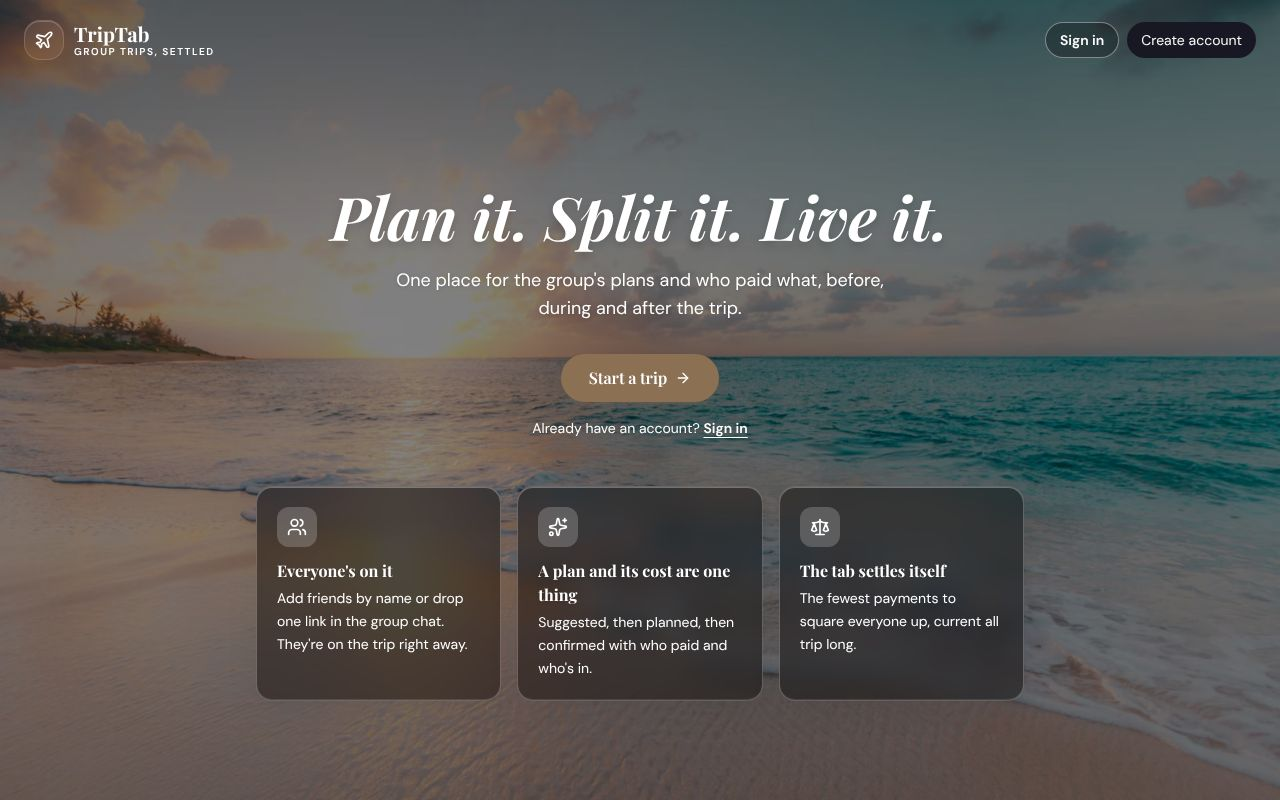
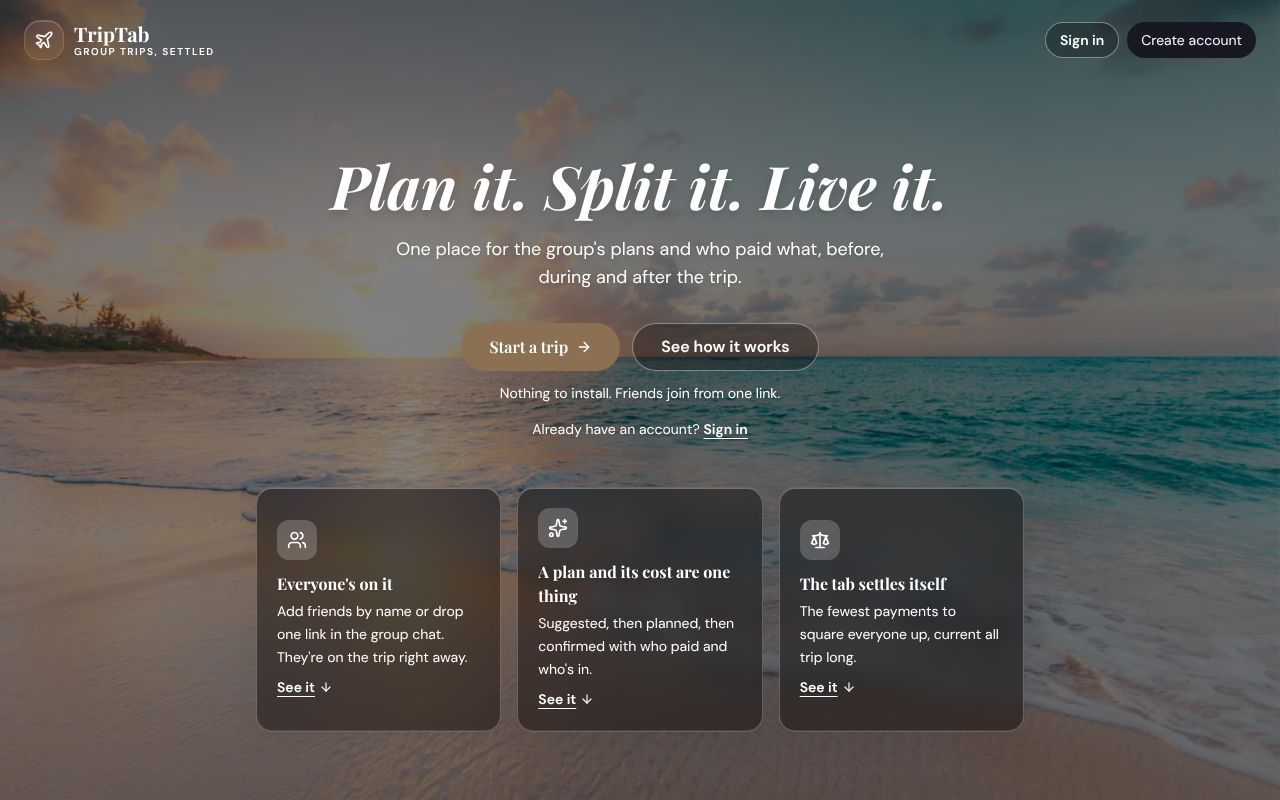
A landing page that shows the product (C48, part 2) (#84)
In its first live week 44 people saw the landing page and none clicked
through; two phone visitors tapped the three feature cards, which looked
like buttons and did nothing. The cards are buttons now: each takes you
to a real screen of the app (the invite, a day of plans, Settle up) in a
new How it works section, with a second Start a trip at the end. A See
how it works button sits beside Start a trip.

The three screens are shot from the ski trip example by
e2e/landing-shots.cjs: made-up people and prices, no real trip.

diff --git a/app/src/pages/Landing.tsx b/app/src/pages/Landing.tsx
@@ -1,25 +1,66 @@
 import { Link, useNavigate } from "react-router";
-import { ArrowRight, Users, Sparkles, Scale } from "lucide-react";
+import { ArrowDown, ArrowRight, Users, Sparkles, Scale } from "lucide-react";
 import { Brand } from "../components/Brand";
 import { Button, PhotoFrame } from "../components/ui";
 import { LANDING_PHOTO } from "../lib/photos";
 import { useAuth } from "../lib/auth";
+import { track } from "../lib/analytics";
 
+/**
+ * The three things TripTab does, each with a real screen of the app (the ski trip example, shot by
+ * e2e/landing-shots.cjs). On the first live week 44 people saw this page and none clicked through;
+ * two phone visitors tapped these cards, which looked like buttons and did nothing (11/23 review,
+ * item 8). Now a card takes you to its screen, and the page shows the product before asking for an
+ * account.
+ */
 const POINTS = [
-  { icon: Users, title: "Everyone's on it", text: "Add friends by name or drop one link in the group chat. They're on the trip right away." },
-  { icon: Sparkles, title: "A plan and its cost are one thing", text: "Suggested, then planned, then confirmed with who paid and who's in." },
-  { icon: Scale, title: "The tab settles itself", text: "The fewest payments to square everyone up, current all trip long." },
-];
+  {
+    id: "invite",
+    icon: Users,
+    title: "Everyone's on it",
+    text: "Add friends by name or drop one link in the group chat. They're on the trip right away.",
+    shot: "/landing/invite.jpg",
+    alt: "The invite a friend opens: the trip, and their name to tap.",
+    step: "Drop one link in the group chat",
+    more: "Each friend taps their name and they're in. No app to install, and nobody fills in a form to see the plan.",
+  },
+  {
+    id: "plans",
+    icon: Sparkles,
+    title: "A plan and its cost are one thing",
+    text: "Suggested, then planned, then confirmed with who paid and who's in.",
+    shot: "/landing/plans.jpg",
+    alt: "A trip's day in TripTab: a flight, a dinner marked paid with your share, and an idea still to decide.",
+    step: "Plan the days together",
+    more: "Each day runs morning to night. Ideas are dotted, plans are solid, and a green check means it's booked and paid. Forward a booking email and TripTab reads it into a plan for you to check.",
+  },
+  {
+    id: "settle",
+    icon: Scale,
+    title: "The tab settles itself",
+    text: "The fewest payments to square everyone up, current all trip long.",
+    shot: "/landing/settle.jpg",
+    alt: "Settle up: three payments that square the whole group, the first with Pay with Venmo.",
+    step: "Settle up in a couple of taps",
+    more: "TripTab works out the fewest payments that square everyone, and opens Venmo with the amount filled in. It never touches your money.",
+  },
+] as const;
 
 /** Straight to the trip: one button, no "already planned or plan it for me" gate (vision, principle 1). */
 export default function Landing() {
   const { user } = useAuth();
   const navigate = useNavigate();
   const start = () => navigate(user ? "/trips/new" : "/sign-in?next=/trips/new");
+  const show = (id: string, from: "card" | "see how") => {
+    track("landing section opened", { section: id, from });
+    document.getElementById(`how-${id}`)?.scrollIntoView({ behavior: "smooth", block: "start" });
+  };
 
   return (
-    <div className="relative flex min-h-dvh flex-col overflow-hidden">
+    <div className="relative">
       <PhotoFrame src={LANDING_PHOTO} tone="landing" />
+      {/* The first screen: the photo, the pitch and the button. How it works starts below it. */}
+      <div className="relative flex min-h-dvh flex-col">
       <header className="relative z-10 flex items-center justify-between px-4 py-4 sm:px-6 sm:py-5">
         <Brand light />
         {user ? (
@@ -46,9 +87,15 @@ export default function Landing() {
         <p className="mx-auto mb-8 max-w-lg text-base text-white drop-shadow sm:text-lg">
           One place for the group's plans and who paid what, before, during and after the trip.
         </p>
-        <Button size="lg" onClick={start}>
-          Start a trip <ArrowRight />
-        </Button>
+        <div className="flex flex-wrap items-center justify-center gap-3">
+          <Button size="lg" onClick={() => (track("landing start", { where: "top" }), start())}>
+            Start a trip <ArrowRight />
+          </Button>
+          <Button size="lg" variant="light" className="!border-white/40 !bg-black/30 font-semibold" onClick={() => show("invite", "see how")}>
+            See how it works
+          </Button>
+        </div>
+        <p className="mt-3 text-sm text-white drop-shadow">Nothing to install. Friends join from one link.</p>
         {user ? (
           <Link to="/trips" className="mt-4 text-sm font-medium text-white drop-shadow hover:underline">
             Open my trips
@@ -63,18 +110,59 @@ export default function Landing() {
         )}
 
         <ul className="mt-12 grid w-full max-w-3xl grid-cols-1 gap-3 text-left sm:grid-cols-3 sm:gap-4">
-          {POINTS.map(({ icon: Icon, title, text }) => (
-            <li key={title} className="glass-card rounded-2xl !bg-black/45 p-4 sm:p-5">
-              <span className="mb-3 grid size-10 place-items-center rounded-xl bg-white/20">
-                <Icon className="size-5 text-white" />
-              </span>
-              <h2 className="mb-1 font-display text-base font-bold text-white drop-shadow">{title}</h2>
-              <p className="text-sm leading-relaxed text-white">{text}</p>
+          {POINTS.map(({ id, icon: Icon, title, text }) => (
+            <li key={id}>
+              <button
+                type="button"
+                onClick={() => show(id, "card")}
+                className="glass-card h-full w-full rounded-2xl !bg-black/45 p-4 text-left transition-colors hover:!bg-black/60 sm:p-5"
+              >
+                <span className="mb-3 grid size-10 place-items-center rounded-xl bg-white/20">
+                  <Icon className="size-5 text-white" />
+                </span>
+                <span className="mb-1 block font-display text-base font-bold text-white drop-shadow">{title}</span>
+                <span className="block text-sm leading-relaxed text-white">{text}</span>
+                <span className="mt-2 inline-flex items-center gap-1 text-sm font-semibold text-white underline underline-offset-4">
+                  See it <ArrowDown className="size-3.5" />
+                </span>
+              </button>
             </li>
           ))}
         </ul>
       </main>
-      <footer className="relative z-10 px-4 pb-5 text-center text-xs text-white drop-shadow">
+      </div>
+
+      <section className="relative z-10 bg-background px-4 py-12 sm:px-6 sm:py-16" aria-labelledby="how-title">
+        <h2 id="how-title" className="mb-10 text-center font-display text-3xl font-bold italic text-foreground sm:text-4xl">
+          How it works
+        </h2>
+        <ol className="mx-auto max-w-4xl space-y-12 sm:space-y-16">
+          {POINTS.map(({ id, shot, alt, step, more }, i) => (
+            <li key={id} id={`how-${id}`} className={`flex scroll-mt-6 flex-col items-center gap-6 sm:flex-row sm:gap-12 ${i % 2 ? "sm:flex-row-reverse" : ""}`}>
+              <img
+                src={shot}
+                alt={alt}
+                width={390}
+                height={700}
+                loading="lazy"
+                className="h-auto w-64 shrink-0 rounded-[2rem] border-4 border-foreground/90 shadow-2xl sm:w-72"
+              />
+              <div className="max-w-md text-center sm:text-left">
+                <p className="label-luxury mb-2 text-gold-dark">Step {i + 1}</p>
+                <h3 className="mb-2 font-display text-2xl font-bold text-foreground">{step}</h3>
+                <p className="text-base leading-relaxed text-foreground/80">{more}</p>
+              </div>
+            </li>
+          ))}
+        </ol>
+        <div className="mt-12 text-center">
+          <Button size="lg" onClick={() => (track("landing start", { where: "bottom" }), start())}>
+            Start a trip <ArrowRight />
+          </Button>
+          <p className="mt-3 text-sm text-foreground/75">It takes about a minute. Your friends don't need an account to see the invite.</p>
+        </div>
+      </section>
+      <footer className="relative z-10 bg-background px-4 pb-6 text-center text-xs text-foreground/80">
         <Link to="/privacy" className="font-medium underline underline-offset-4">
           Privacy
         </Link>

diff --git a/app/src/lib/analytics.ts b/app/src/lib/analytics.ts
@@ -124,6 +124,8 @@ function run(fn: (ph: PostHog) => void) {
 
 export type EventName =
   | "signed up"
+  | "landing start"
+  | "landing section opened"
   | "signed in"
   | "google linked"
   | "trip created"
